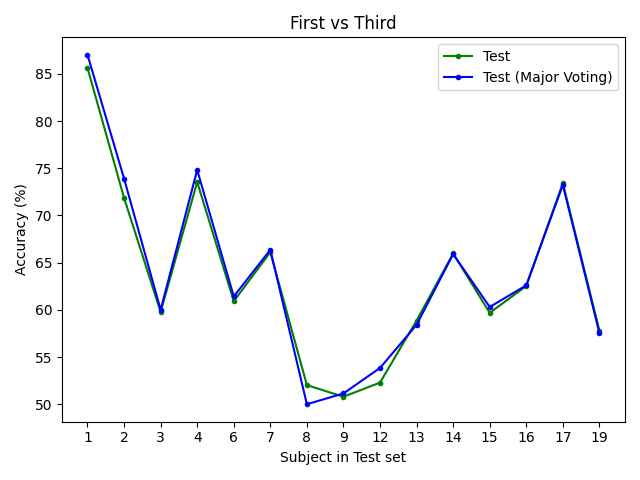
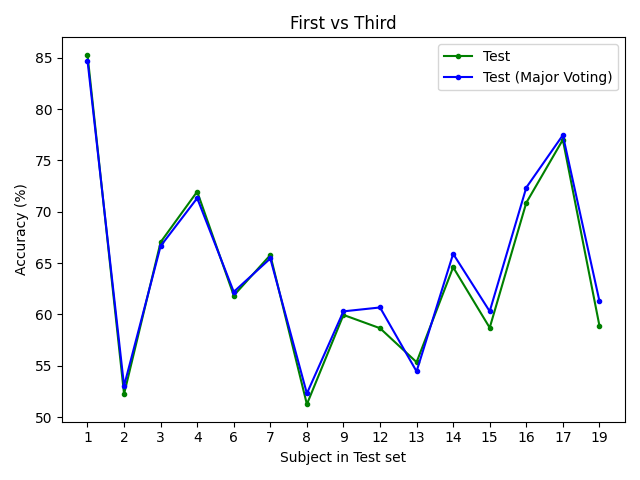
ATCNET added

diff --git a/csp_test.py b/csp_test.py
@@ -2,6 +2,7 @@ import mne
 import h5py
 import argparse
 import numpy as np
+from utils.config import Config
 from utils.utils import stockwell
 from mne.decoding import CSP
 from sklearn.neural_network import MLPClassifier
@@ -11,6 +12,8 @@ from sklearn.discriminant_analysis import LinearDiscriminantAnalysis as LDA
 parser = argparse.ArgumentParser(description='EEG Classfication Network Testing')
 parser.add_argument('--subject', default='1',type=str, help='Subject')
 args = parser.parse_args()
+
+config = Config()
 
 def cal_acc(pred, target):
     total = len(pred)
@@ -38,8 +41,8 @@ with h5py.File(file_path, 'r',rdcc_nbytes=1024**2*4000,rdcc_nslots=1e7) as file:
 
 
 # Define and apply CSP
-n_components = 20
-csp = CSP(n_components=n_components, reg=None, log=None, norm_trace=False, transform_into='csp_space')
+print(config.csp_channels,train_data.shape)
+csp = CSP(n_components=config.csp_channels, reg=None, log=None, norm_trace=False, transform_into='csp_space')
 csp.fit(train_data, train_labels)
 X_train_csp = csp.transform(train_data)
 X_test_csp  = csp.transform(test_data)

diff --git a/mat2h5ConversionFull.py b/mat2h5ConversionFull.py
@@ -16,7 +16,7 @@ config.train_subjects = config.all_subjects
 all_trials   =  np.array(range(0,config.n_trial))
 test_trials  = all_trials
 
-if config.apply_valid_set:
+if config.apply_valid_set == 'all':
    valid_sub = np.random.choice(config.train_subjects,3,replace=False)
    config.valid_subjects = np.array(valid_sub)
    config.train_subjects = np.setdiff1d(config.train_subjects, config.valid_subjects)
@@ -63,7 +63,7 @@ def find_num_trials(data_type, des_sub):
             eeg = np.array(f[ref])
             if subject == des_sub:
                all_trials = np.arange(eeg.shape[0])
-               tr_trials_arr = np.array(np.random.choice(all_trials,eeg.shape[0]*5//10,replace=False))
+               tr_trials_arr = np.array(np.random.choice(all_trials,eeg.shape[0]*2//10,replace=False))
                train_trials[condition] = tr_trials_arr
                test_trials[condition]  = np.setdiff1d(all_trials, tr_trials_arr)
             trials_shape.append(eeg.shape[0])

diff --git a/utils/config.py b/utils/config.py
@@ -32,6 +32,9 @@ class Config:
           self.apply_gauss = False
           self.mapping_size = 3
 
+          # CSP Transform
+          self.csp_channels = 22
+
           # Each segement
           if self.downsample:
              self.n_timepoints = 500
@@ -60,7 +63,7 @@ class Config:
           # Bad Subjects: [0,5,10,11,18]
           self.train_subjects  = []
           self.all_subjects    = np.array([1,2,3,4,6,7,8,9,12,13,14,15,16,17,19])
-#          self.all_subjects    = np.array([1,2,3,4,6,7,8])
+#          self.all_subjects    = np.array([1,3,4,6,8,9,12,13,14,15,16,17])
           self.valid_subjects  = []
           self.test_subjects   = []
           if self.realVSFake:

diff --git a/utils/utils.py b/utils/utils.py
@@ -243,6 +243,13 @@ def model_loader(config, kernel_size):
     elif config.model_type == 'mlp':
        from models.mlp import MLP
        return MLP(config)
+    elif config.model_type == 'atcnet':
+       from torcheeg.models import ATCNet
+       if config.transform == 'csp':
+          n_electrodes = config.csp_channels
+       else:
+          n_electrodes = config.n_channels
+       return ATCNet(num_classes=1, num_electrodes=n_electrodes, chunk_size=config.window_len, num_windows=5)
     else:
        return False
 

diff --git a/test_performance.py b/test_performance.py
@@ -41,8 +41,8 @@ if config.apply_valid_set == 'all':
    valid_acc, target_valid = test(net, validloader, config, "valid")
 
 #print("Train Performance:")
-#train_acc, _ = test(net, trainloader, config, "train")
-train_acc = 100.
+train_acc, _ = test(net, trainloader, config, "train")
+#train_acc = 100.
 
 header_name = 'Name,Acc,Target'
 if config.apply_valid_set == 'all':
